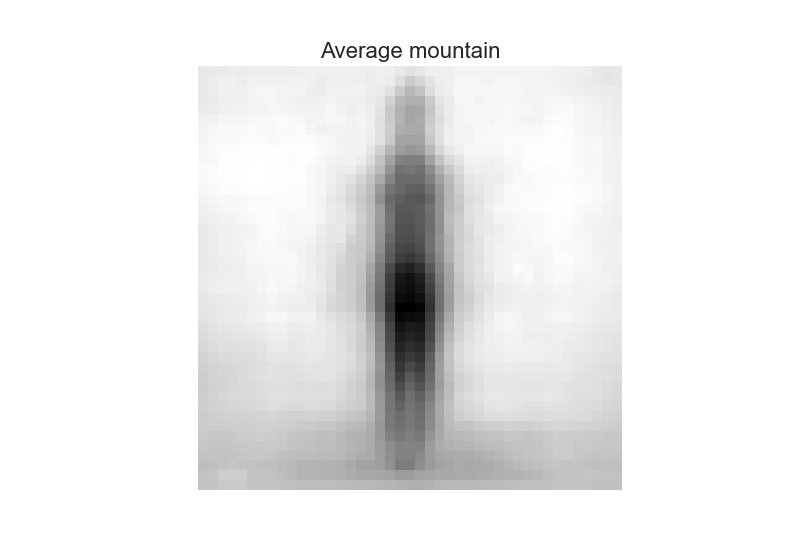
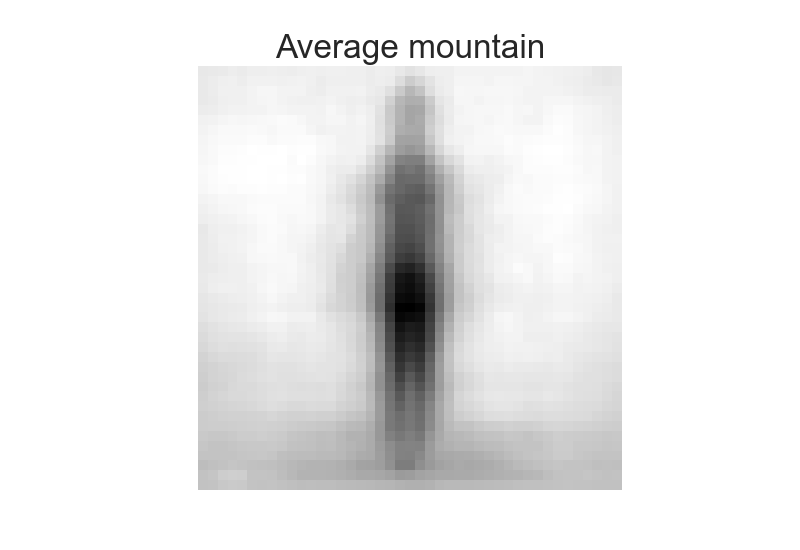
font sizes

Changed region(s): [[0.3438, 0.0618, 0.6875, 0.1236]]

diff --git a/src/logistic_reg.py b/src/logistic_reg.py
@@ -16,18 +16,27 @@ def two_dim_pca(X, y):
     fig, ax = plt.subplots(1)
     ax.set_xlabel('Principal Component 1', fontsize = 15)
     ax.set_ylabel('Principal Component 2', fontsize = 15)
-    ax.set_title('PCA with 2 Components', fontsize = 20)
+    ax.set_title('PCA with 2 Components', fontsize = 24)
     ax.scatter(X[:,0], X[:,1], c=y,cmap='bwr_r')
     plt.savefig('../images/PCA_plot_2.png')
 
 def three_dim_pca(X, y):
-    fig = plt.figure()
+    fig = plt.figure(figsize=(10,12))
     ax = fig.add_subplot(111, projection='3d')
     ax.set_xlabel('Principal Component 1', fontsize = 15)
     ax.set_ylabel('Principal Component 2', fontsize = 15)
     ax.set_zlabel('Principal Component 3', fontsize = 15)
-    ax.set_title('PCA with 3 Components', fontsize = 20)
+    ax.set_title('PCA with 3 Components', fontsize = 24)
     ax.scatter(X[:,0], X[:,1], X[:,2], c=y,cmap='bwr_r')
+    ax.xaxis.set_ticklabels([])
+    ax.yaxis.set_ticklabels([])
+    ax.zaxis.set_ticklabels([])
+    for line in ax.xaxis.get_ticklines():
+        line.set_visible(False)
+    for line in ax.yaxis.get_ticklines():
+        line.set_visible(False)
+    for line in ax.zaxis.get_ticklines():
+        line.set_visible(False)
     plt.savefig('../images/PCA_plot_3.png')
 
 def crossVal(X, y, k, threshold=0.75):
@@ -64,7 +73,7 @@ def we_will_roc_you(X,y):
     ax.plot(x, x, linestyle='--', color ='black', label='Random Guess')
     ax.set_xlabel('False Positive Rate (FPR)', fontsize=16)
     ax.set_ylabel('True Positive Rate (TPR)', fontsize=16)
-    ax.set_title('ROC Curve with 3 Features', fontsize=18)
+    ax.set_title('ROC Curve with 3 Features', fontsize=24)
     plt.legend()
     plt.savefig('../images/roccurve_3.png',  bbox_inches='tight')
     return thresholds[fpr>0.2][0]

diff --git a/src/feature_extraction_eda.py b/src/feature_extraction_eda.py
@@ -19,7 +19,7 @@ def display_image(image, ax, title, square_size=43):
     '''
     display = image.reshape(square_size,square_size)
     ax.imshow(display,cmap='gray')
-    ax.set_title(title, fontsize=16)
+    ax.set_title(title, fontsize=24)
     ax.set_axis_off()
     return ax
 
@@ -35,6 +35,7 @@ def avg_pixel_intensity(data, classname):
     fig, ax = plt.subplots(1)
     display_image(avg_image, ax, title)
     plt.savefig(f'../images/avg_pixel_intensity_{classname}.png')
+
     return ax
 
 def histograms_of_pixel_intensities(data, classname):
@@ -48,9 +49,9 @@ def histograms_of_pixel_intensities(data, classname):
     avg_image = data.mean(axis=0)
     fig, ax = plt.subplots(1,figsize=(6,6))
     ax.hist(avg_image)
-    ax.set_xlabel('Pixel Intensities', fontsize=14)
-    ax.set_ylabel('Frequency in Image', fontsize=14)
-    ax.set_title(f'Average {classname} Histogram', fontsize=16)
+    ax.set_xlabel('Pixel Intensities', fontsize=18)
+    ax.set_ylabel('Frequency in Image', fontsize=18)
+    ax.set_title(f'Average {classname} Histogram', fontsize=24)
     plt.savefig(f'../images/avg_histogram_{classname}.png')
     return ax
 

diff --git a/README.md b/README.md
@@ -30,8 +30,8 @@ The first thing I did was take a look at the mean pixel intensities for each of 
 
 <div align="center">
 <p float="middle">
-    <img src="images/avg_pixel_intensity_downdog.png" width="500" />
-    <img src="images/avg_pixel_intensity_mountain.png" width="500" /> 
+    <img src="images/avg_pixel_intensity_downdog.png" width="600" />
+    <img src="images/avg_pixel_intensity_mountain.png" width="600" /> 
 </p>
 
 <div align="left">
@@ -41,8 +41,8 @@ Next, I created histograms for the Frequency of the pixel intensities for each m
 
 <div align="center">
 <p float="middle">
-    <img src="images/avg_histogram_downdog.png" width="500" />
-    <img src="images/avg_histogram_mountain.png" width="500" /> 
+    <img src="images/avg_histogram_downdog.png" width="600" />
+    <img src="images/avg_histogram_mountain.png" width="600" /> 
 </p>
 
 <div align="left">
@@ -54,8 +54,8 @@ Sobel Filter:
 
 <div align="center">
 <p float="middle">
-    <img src="images/avg_sobel_downdog.png" width="500" />
-    <img src="images/avg_sobel_mountain.png" width="500" /> 
+    <img src="images/avg_sobel_downdog.png" width="600" />
+    <img src="images/avg_sobel_mountain.png" width="600" /> 
 </p>
 
 <div align="left">
@@ -63,39 +63,44 @@ Canny Filter:
 
 <div align="center">
 <p float="middle">
-    <img src="images/avg_canny_downdog.png" width="500" />
-    <img src="images/avg_canny_mountain.png" width="500" /> 
+    <img src="images/avg_canny_downdog.png" width="600" />
+    <img src="images/avg_canny_mountain.png" width="600" /> 
 </p>
 
-## Logistic Regression
 <div align="left">
+
+## Logistic Regression
+
 Based on the featurization above, I decided to use the Canny filter in the Logistic Regression since the images were so different from eachother. 
 
 Since images have so many features (these images are 43x43 pixels), I then used Principal Component Analysis to consolidate down to two features before cross validating. I also wanted to look at using 3 features to see how that would affect the model accuracy.
 
 <div align="center">
 <p float="middle">
-    <img src="images/PCA_plot_2.png" width="500" />
-    <img src="images/PCA_plot_3.png" width="500" /> 
+    <img src="images/PCA_plot_2.png" width="600" />
+    <img src="images/PCA_plot_3.png" width="600" /> 
 </p>
 <div align="left">
 I used k-folds cross validation with 5 folds and a probability threshold of 0.75 in order to be classified as Mountain Pose. I chose a 0.75 threshold because mountain pose has a much more distinct image as seen in the mean image pixel intensity above.
 
 During cross validation:
-The 2 component PCA-vectorized data resulted in a training accuracy was 0.711 and a test accuracy was 0.710
+The 2 component PCA-vectorized data resulted in a training accuracy was 0.781 and a test accuracy was 0.771
 
-The 3 component PCA-vectorized data resulted in a training accuracy of 0.737 and a test accuracy of 0.742.
+The 3 component PCA-vectorized data resulted in a training accuracy of 0.772 and a test accuracy of 0.773.
 
 ROC Curves with 2 and 3 features:
 
 <div align="center">
 <p float="middle">
-    <img src="images/roccurve_2.png" width="500" />
-    <img src="images/roccurve_3.png" width="500" /> 
+    <img src="images/roccurve_2.png" width="600" />
+    <img src="images/roccurve_3.png" width="600" /> 
 </p>
+
+<div align="left">
 
 Confusion Matrix with 3 features:
 
 <div align="center">
+
 ![](images/confusion_matrix_3.png)
 
